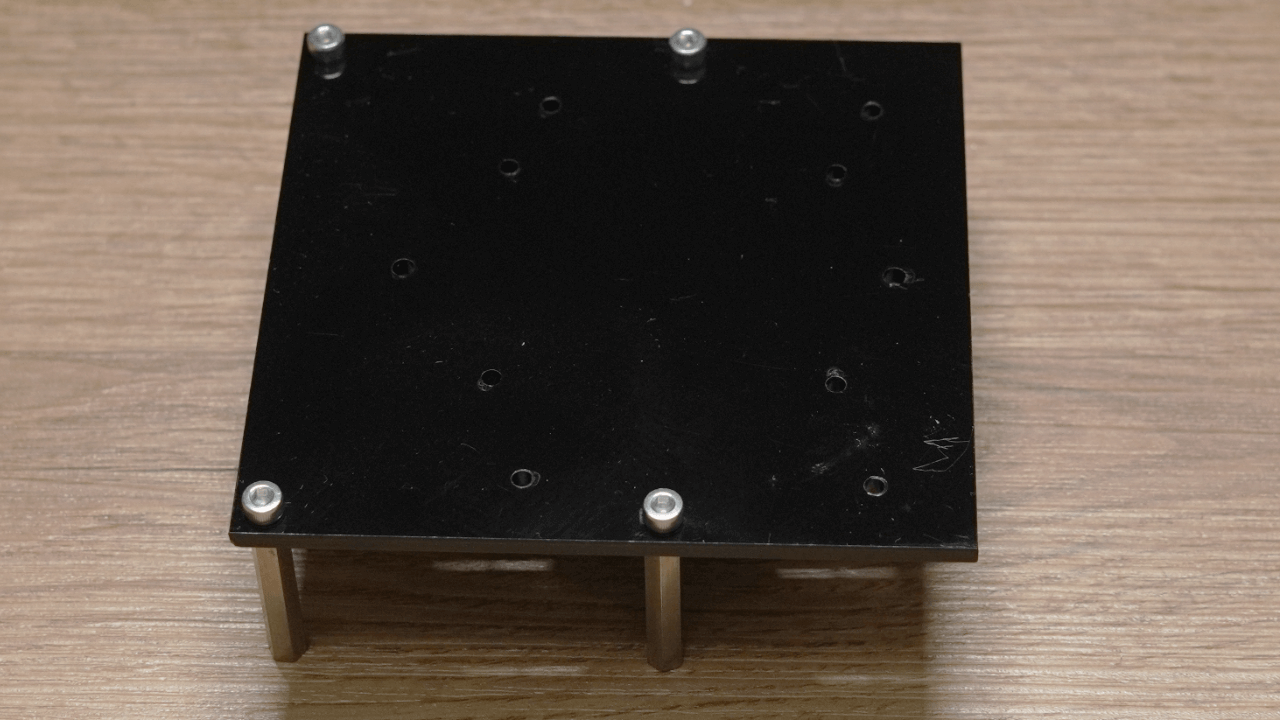
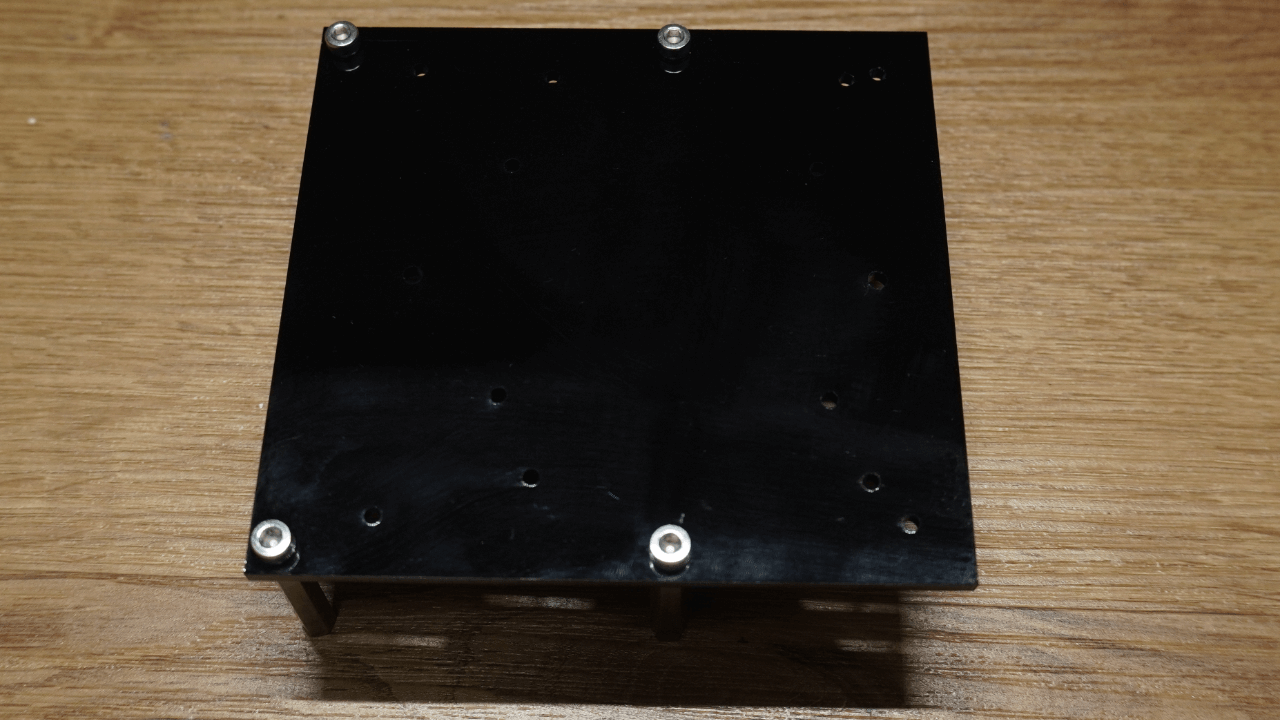
update

diff --git a/content/lgdxrobot2/chassis/assembling-the-pc-plate.md b/content/lgdxrobot2/chassis/assembling-the-pc-plate.md
@@ -5,47 +5,48 @@ weight: 7
 
 The installation procedure depends on the type of PC being used. Three types of PC are supported: **Nvidia Jetson Nano**, **Raspberry Pi**, and **NUC**.
 
-Insert M4 screws through the PC plate into the M4 standoffs and tighten them with a hex key. Then install the PC according to its type.
+Insert M4 screws through the PC plate into the M4 standoffs and tighten them with a hex key.
 
 ![Image of the install standoffs](../img/asm_pc/standoffs.png)
 
+The screws should be inserted through the holes highlighted in green.
+
+![Image of the install standoffs](../img/asm_pc/standoffs_hole.png)
+
 ### Nvidia Jetson Nano
 
-Insert M2.5 screws through the PC plate into the M2.5 standoffs and tighten them with a hex key. 
+Insert M2.5 screws through the PC plate into the M2.5 standoffs and tighten them with a hex key. The screws should be inserted through the holes highlighted in green.
 
 ![Image of the install standoffs](../img/asm_pc/jetson_standoffs.png)
 
-Secure the Jetson Nano to the standoffs using M2.5 screws and a hex key.
-
-![Image of the install Jetson Nano](../img/asm_pc/jetson_install.png)
-
-Insert M4 screws through the PC plate into the M4 standoffs and tighten them with a hex key. Then secure the PC plate to the bottom plate using M4 screws and a hex key. Connect the USB cables for the controller board, camera, and LiDAR.
-
-![Image of the install on chassis](../img/asm_pc/jetson_chassis.png)
-
 ### Raspberry Pi
 
-Insert M2.5 screws through the PC plate into the M2.5 standoffs and tighten them with a hex key. 
+Insert M2.5 screws through the PC plate into the M2.5 standoffs and tighten them with a hex key. The screws should be inserted through the holes highlighted in green.
 
 ![Image of the install standoffs](../img/asm_pc/pi_standoffs.png)
 
-Secure the Raspberry Pi to the standoffs using M2.5 screws and a hex key.
-
-![Image of the install Raspberry Pi](../img/asm_pc/pi_install.png)
-
-Insert M4 screws through the PC plate into the M4 standoffs and tighten them with a hex key. Then secure the PC plate to the bottom plate using M4 screws and a hex key. Connect the USB cables for the controller board, camera, and LiDAR.
-
-![Image of the install on chassis](../img/asm_pc/pi_chassis.png)
-
-### NUC
-
-The case of the NUC must be removed before installing on the PC plate.
-{.alert .alert-warning}
+### NUC with Case
 
 Place the NUC on the PC plate and secure it using M3 screws from the underside of the NUC, tightening with a hex key.
 
 ![Image of the install NUC](../img/asm_pc/nuc_install.png)
 
-Secure the PC plate to the bottom plate using M4 screws and a hex key. Connect the USB cables for the controller board, camera, and LiDAR.
+The screws should be inserted through the holes highlighted in green.
 
-![Image of the install on chassis](../img/asm_pc/nuc_chassis.png)
+![Image of the install NUC](../img/asm_pc/nuc_case_standoffs.png)
+
+### NUC without Case
+
+Insert M2.5 screws through the PC plate into the M2.5 standoffs and tighten them with a hex key. The screws should be inserted through the holes highlighted in green.
+
+![Image of the install standoffs](../img/asm_pc/nuc_standoffs.png)
+
+## Installing the PC Plate
+
+Secure the PC plate to the bottom plate using M4 screws and a hex key. Connect the USB cables for the controller board and LiDAR.
+
+![Image of the install PC plate](../img/asm_pc/pc_plate_install.png)
+
+The screws should be inserted through the holes highlighted in green.
+
+![Image of the install PC plate](../img/asm_pc/pc_plate_install_hole.png)
